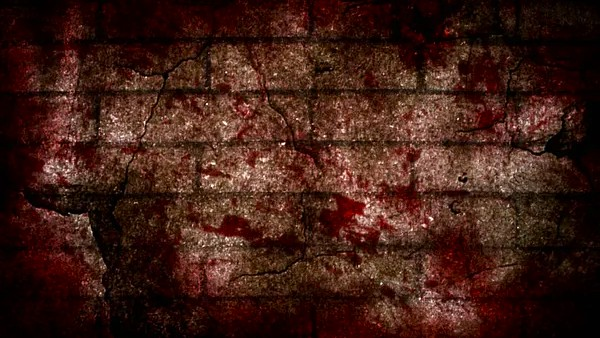
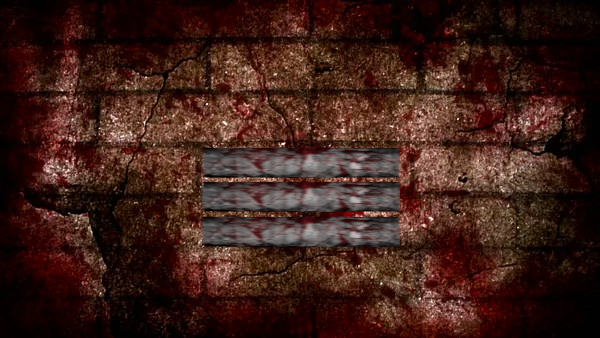
Zmiana ekranu menu + nowe opcje menu

Changed region(s): [[0.33, 0.4142, 0.69, 0.7396]]

diff --git a/Menu.cpp b/Menu.cpp
@@ -4,6 +4,11 @@
 #include <iostream>
 #include <string>
 #include <iomanip>
+#include <algorithm>
+#include <sstream>
+
+const int SETTINGS_COUNT = 5;
+const int VISIBLE_ROWS = 4;
 
 static bool keyUpPressed = false;
 static bool keyDownPressed = false;
@@ -24,7 +29,6 @@ void applyResolution(GLFWwindow* window, int index, int& w, int& h, bool fullscr
     else {
         glfwSetWindowSize(window, w, h);
         glViewport(0, 0, w, h);
-
         const GLFWvidmode* mode = glfwGetVideoMode(glfwGetPrimaryMonitor());
         glfwSetWindowPos(window, (mode->width - w) / 2, (mode->height - h) / 2);
     }
@@ -38,7 +42,6 @@ void setWindowMode(GLFWwindow* window, bool fullscreen, int w, int h) {
     }
     else {
         glfwSetWindowMonitor(window, nullptr, 100, 100, w, h, 0);
-
         const GLFWvidmode* mode = glfwGetVideoMode(glfwGetPrimaryMonitor());
         glfwSetWindowPos(window, (mode->width - w) / 2, (mode->height - h) / 2);
     }
@@ -56,7 +59,14 @@ void updateMenu(GLFWwindow* window, GameState& currentState, MenuContext& menuCt
             }
             else {
                 menuCtx.settingsOption--;
-                if (menuCtx.settingsOption < 0) menuCtx.settingsOption = 3;
+                if (menuCtx.settingsOption < 0) {
+                    menuCtx.settingsOption = SETTINGS_COUNT - 1;
+                    menuCtx.settingsScrollOffset = SETTINGS_COUNT - VISIBLE_ROWS;
+                    if (menuCtx.settingsScrollOffset < 0) menuCtx.settingsScrollOffset = 0;
+                }
+                else if (menuCtx.settingsOption < menuCtx.settingsScrollOffset) {
+                    menuCtx.settingsScrollOffset--;
+                }
             }
             keyUpPressed = true;
         }
@@ -72,7 +82,13 @@ void updateMenu(GLFWwindow* window, GameState& currentState, MenuContext& menuCt
             }
             else {
                 menuCtx.settingsOption++;
-                if (menuCtx.settingsOption > 3) menuCtx.settingsOption = 0;
+                if (menuCtx.settingsOption >= SETTINGS_COUNT) {
+                    menuCtx.settingsOption = 0;
+                    menuCtx.settingsScrollOffset = 0;
+                }
+                else if (menuCtx.settingsOption >= menuCtx.settingsScrollOffset + VISIBLE_ROWS) {
+                    menuCtx.settingsScrollOffset++;
+                }
             }
             keyDownPressed = true;
         }
@@ -80,24 +96,26 @@ void updateMenu(GLFWwindow* window, GameState& currentState, MenuContext& menuCt
     else keyDownPressed = false;
 
     if (menuCtx.inSettings) {
-        bool changed = false;
-
         if (glfwGetKey(window, GLFW_KEY_LEFT) == GLFW_PRESS) {
             if (!keyLeftPressed) {
                 playMenuBeep();
-                if (menuCtx.settingsOption == 0) {
+                if (menuCtx.settingsOption == 0) { // RES
                     menuCtx.resIndex--;
                     if (menuCtx.resIndex < 0) menuCtx.resIndex = 2;
                     applyResolution(window, menuCtx.resIndex, scrW, scrH, menuCtx.isFullscreen);
                 }
-                else if (menuCtx.settingsOption == 1) {
+                else if (menuCtx.settingsOption == 1) { // SCREEN
                     menuCtx.isFullscreen = !menuCtx.isFullscreen;
                     setWindowMode(window, menuCtx.isFullscreen, scrW, scrH);
                 }
-                else if (menuCtx.settingsOption == 2) {
+                else if (menuCtx.settingsOption == 2) { // VOLUME
                     menuCtx.volume -= 0.1f;
                     if (menuCtx.volume < 0.0f) menuCtx.volume = 0.0f;
                     setGlobalVolume(menuCtx.volume);
+                }
+                else if (menuCtx.settingsOption == 3) { // BRIGHTNESS
+                    menuCtx.brightness -= 0.1f;
+                    if (menuCtx.brightness < 0.1f) menuCtx.brightness = 0.1f; // Minimum 0.1
                 }
                 keyLeftPressed = true;
             }
@@ -107,19 +125,23 @@ void updateMenu(GLFWwindow* window, GameState& currentState, MenuContext& menuCt
         if (glfwGetKey(window, GLFW_KEY_RIGHT) == GLFW_PRESS) {
             if (!keyRightPressed) {
                 playMenuBeep();
-                if (menuCtx.settingsOption == 0) {
+                if (menuCtx.settingsOption == 0) { // RES
                     menuCtx.resIndex++;
                     if (menuCtx.resIndex > 2) menuCtx.resIndex = 0;
                     applyResolution(window, menuCtx.resIndex, scrW, scrH, menuCtx.isFullscreen);
                 }
-                else if (menuCtx.settingsOption == 1) {
+                else if (menuCtx.settingsOption == 1) { // SCREEN
                     menuCtx.isFullscreen = !menuCtx.isFullscreen;
                     setWindowMode(window, menuCtx.isFullscreen, scrW, scrH);
                 }
-                else if (menuCtx.settingsOption == 2) {
+                else if (menuCtx.settingsOption == 2) { // VOLUME
                     menuCtx.volume += 0.1f;
                     if (menuCtx.volume > 1.0f) menuCtx.volume = 1.0f;
                     setGlobalVolume(menuCtx.volume);
+                }
+                else if (menuCtx.settingsOption == 3) { // BRIGHTNESS
+                    menuCtx.brightness += 0.1f;
+                    if (menuCtx.brightness > 2.0f) menuCtx.brightness = 2.0f; // Maximum 2.0
                 }
                 keyRightPressed = true;
             }
@@ -130,28 +152,17 @@ void updateMenu(GLFWwindow* window, GameState& currentState, MenuContext& menuCt
     if (glfwGetKey(window, GLFW_KEY_ENTER) == GLFW_PRESS) {
         if (!keyEnterPressed) {
             playMenuBeep();
-
             if (!menuCtx.inSettings) {
-                if (menuCtx.selectedOption == 0) {
-                    resetGameFn();
-                    currentState = PLAYING;
-                }
+                if (menuCtx.selectedOption == 0) { resetGameFn(); currentState = PLAYING; }
                 else if (menuCtx.selectedOption == 1) {
                     menuCtx.inSettings = true;
                     menuCtx.settingsOption = 0;
+                    menuCtx.settingsScrollOffset = 0;
                 }
-                else if (menuCtx.selectedOption == 2) {
-                    shouldClose = true;
-                }
+                else if (menuCtx.selectedOption == 2) { shouldClose = true; }
             }
             else {
-                if (menuCtx.settingsOption == 3) {
-                    menuCtx.inSettings = false;
-                }
-                else if (menuCtx.settingsOption == 1) {
-                    menuCtx.isFullscreen = !menuCtx.isFullscreen;
-                    setWindowMode(window, menuCtx.isFullscreen, scrW, scrH);
-                }
+                if (menuCtx.settingsOption == 4) { menuCtx.inSettings = false; }
             }
             keyEnterPressed = true;
         }
@@ -160,48 +171,86 @@ void updateMenu(GLFWwindow* window, GameState& currentState, MenuContext& menuCt
 }
 
 void renderMenu(std::vector<float>& vertices, const MenuContext& menuCtx) {
-    drawQuad2D(vertices, 0.0f, 0.0f, 1.0f, 1.0f, 60.0f);
+
+    float bgID = 60.0f;
+    if (menuCtx.inSettings) {
+        bgID = 63.0f;
+    }
+
+    drawQuad2D(vertices, 0.0f, 0.0f, 1.0f, 1.0f, bgID);
     drawQuad2D(vertices, 0.0f, 0.6f, 0.5f, 0.25f, 61.0f);
 
-    float startY = -0.1f;
-    float gap = 0.13f;
-    float scale = 0.05f;
+    float startY = 0.0f;
+    float gap = 0.20f;
+
+    float mainScale = 0.08f;
+    float exitScale = 0.06f;
+    float optionsScale = 0.07f;
+
+    auto drawCenteredOption = [&](int index, int selectedIndex, float y, std::string text, float itemScale) {
+        float textWidth = text.length() * itemScale * 0.65f;
+        float startX = 0.0f - (textWidth / 2.0f);
+        drawText(vertices, startX, y, itemScale, text);
+
+        if (index == selectedIndex) {
+            float iconSize = 0.05f;
+            float iconY = y + (itemScale * 0.3f);
+            float pushRight = 0.01f;
+
+            float leftIconPos = startX - iconSize + pushRight;
+            drawQuad2D(vertices, leftIconPos, iconY, iconSize, iconSize, 62.0f);
+
+            float rightIconPos = startX + textWidth + iconSize - pushRight - (itemScale * 0.2f);
+            drawQuad2D(vertices, rightIconPos, iconY, iconSize, iconSize, 62.0f);
+        }
+        };
 
     if (!menuCtx.inSettings) {
-        if (menuCtx.selectedOption == 0) drawText(vertices, -0.25f, startY, scale + 0.01f, "> NEW GAME <");
-        else drawText(vertices, -0.20f, startY, scale, "NEW GAME");
-
-        if (menuCtx.selectedOption == 1) drawText(vertices, -0.25f, startY - gap, scale + 0.01f, "> SETTINGS <");
-        else drawText(vertices, -0.20f, startY - gap, scale, "SETTINGS");
-
-        if (menuCtx.selectedOption == 2) drawText(vertices, -0.25f, startY - gap * 2, scale + 0.01f, "> EXIT GAME <");
-        else drawText(vertices, -0.20f, startY - gap * 2, scale, "EXIT GAME");
+        drawCenteredOption(0, menuCtx.selectedOption, startY, "NEW GAME ", mainScale);
+        drawCenteredOption(1, menuCtx.selectedOption, startY - gap, "SETTINGS ", mainScale);
+        drawCenteredOption(2, menuCtx.selectedOption, startY - gap * 2, "EXIT GAME ", exitScale);
     }
     else {
-        drawText(vertices, -0.25f, startY + 0.1f, scale, "--- OPTIONS ---");
 
-        std::string resText;
-        if (menuCtx.resIndex == 0) resText = "1920x1080";
-        else if (menuCtx.resIndex == 1) resText = "1280x720";
-        else resText = "640x480";
+        drawCenteredOption(-1, -1, startY + 0.15f, "--- OPTIONS ---", mainScale);
 
-        if (menuCtx.settingsOption == 0) drawText(vertices, -0.45f, startY, scale + 0.01f, "> RES: " + resText + " <");
-        else drawText(vertices, -0.40f, startY, scale, "RES: " + resText);
+        for (int i = 0; i < SETTINGS_COUNT; i++) {
+            if (i >= menuCtx.settingsScrollOffset && i < menuCtx.settingsScrollOffset + VISIBLE_ROWS) {
+                int relativeIndex = i - menuCtx.settingsScrollOffset;
+                float currentY = startY - (relativeIndex * gap);
 
-        std::string fsText = menuCtx.isFullscreen ? "ON" : "OFF";
+                std::string text = "";
+                if (i == 0) {
+                    std::string resText = (menuCtx.resIndex == 0) ? "1920x1080 " : ((menuCtx.resIndex == 1) ? "1280x720 " : "640x480 ");
+                    text = "RES: " + resText;
+                }
+                else if (i == 1) {
+                    text = "FULLSCREEN: " + std::string(menuCtx.isFullscreen ? "ON " : "OFF ");
+                }
+                else if (i == 2) {
+                    text = "VOLUME: " + std::to_string((int)(menuCtx.volume * 100)) + "% ";
+                }
+                else if (i == 3) {
+                    std::stringstream ss;
+                    ss << std::fixed << std::setprecision(1) << menuCtx.brightness;
+                    text = "BRIGHTNESS: " + ss.str() + " ";
+                }
+                else if (i == 4) {
+                    text = "BACK ";
+                }
 
-        if (menuCtx.settingsOption == 1) drawText(vertices, -0.45f, startY - gap, scale + 0.01f, "> SCREEN: " + fsText + " <");
-        else drawText(vertices, -0.40f, startY - gap, scale, "SCREEN: " + fsText);
+                drawCenteredOption(i, menuCtx.settingsOption, currentY, text, optionsScale);
+            }
+        }
 
-        int volPercent = (int)(menuCtx.volume * 100);
-        std::string volText = std::to_string(volPercent) + "%";
+        if (menuCtx.settingsScrollOffset > 0)
+            drawText(vertices, -0.02f, startY + 0.05f, 0.03f, "^");
 
-        if (menuCtx.settingsOption == 2) drawText(vertices, -0.45f, startY - gap * 2, scale + 0.01f, "> VOL: " + volText + " <");
-        else drawText(vertices, -0.40f, startY - gap * 2, scale, "VOL: " + volText);
-
-        if (menuCtx.settingsOption == 3) drawText(vertices, -0.25f, startY - gap * 3, scale + 0.01f, "> BACK <");
-        else drawText(vertices, -0.20f, startY - gap * 3, scale, "BACK");
+        if (menuCtx.settingsScrollOffset + VISIBLE_ROWS < SETTINGS_COUNT)
+            drawText(vertices, -0.02f, startY - (VISIBLE_ROWS * gap) + 0.05f, 0.03f, "v");
     }
 
-    drawText(vertices, -0.55f, -0.90f, 0.03f, "ARROWS TO MOVE, ENTER TO SELECT");
+    std::string footer = "ARROWS TO MOVE, ENTER TO SELECT";
+    float footerWidth = footer.length() * 0.03f * 0.65f;
+    drawText(vertices, 0.0f - (footerWidth / 2.0f), -0.90f, 0.03f, footer);
 }

diff --git a/main.cpp b/main.cpp
@@ -191,11 +191,15 @@ uniform sampler2D shellTex;          // 54
 uniform sampler2D shellShotgunTex;   // 55
 uniform sampler2D menuBgTex;         // 56
 uniform sampler2D logoTex;           // 57
+uniform sampler2D bloodyXTex;        // 58
+uniform sampler2D settingsBgTex;     // 59
 
 uniform bool useTexture; uniform float playerDir; uniform vec2 playerPos; uniform float screenWidth; uniform float screenHeight;
 uniform float damageIntensity;
 uniform float horizon;
 uniform float flashIntensity;
+
+uniform float brightness; 
 
 void main() {
     if (useTexture) {
@@ -232,6 +236,8 @@ void main() {
         else if (ourColor.b > 89.9) texColor = texture(wallTexture, TexCoord);
         else if (ourColor.b > 79.9) texColor = texture(bloodPartTex, TexCoord);
         
+        else if (ourColor.b > 62.9) texColor = texture(settingsBgTex, TexCoord);
+        else if (ourColor.b > 61.9) texColor = texture(bloodyXTex, TexCoord);
         else if (ourColor.b > 60.9) texColor = texture(logoTex, TexCoord);
         else if (ourColor.b > 59.9) texColor = texture(menuBgTex, TexCoord);
         
@@ -323,6 +329,9 @@ void main() {
 
         if (!isBlood) FragColor = texColor * vec4(ourColor.r, ourColor.r, ourColor.r, 1.0);
         else FragColor = texColor;
+
+        FragColor = FragColor * vec4(brightness, brightness, brightness, 1.0);
+
     } else { FragColor = vec4(ourColor, 1.0); }
 }
 )glsl";
@@ -400,7 +409,7 @@ int main() {
     glVertexAttribPointer(1, 3, GL_FLOAT, GL_FALSE, 7 * sizeof(float), (void*)(2 * sizeof(float))); glEnableVertexAttribArray(1);
     glVertexAttribPointer(2, 2, GL_FLOAT, GL_FALSE, 7 * sizeof(float), (void*)(5 * sizeof(float))); glEnableVertexAttribArray(2);
 
-    GLuint t[58];
+    GLuint t[60];
     t[0] = loadTexture("wall.png"); t[1] = loadTexture("monster.png"); t[2] = loadTexture("pistol.png");
     t[3] = loadTexture("font.png"); t[4] = loadTexture("hit.png"); t[5] = loadTexture("floor.png");
     t[6] = loadTexture("ceiling.png"); t[7] = loadTexture("pistol_view_128.png"); t[8] = loadTexture("shotgun.png");
@@ -443,6 +452,8 @@ int main() {
     t[55] = loadTexture("shell_shotgun.png");
     t[56] = loadTexture("menu_bg.png");
     t[57] = loadTexture("logo.png");
+    t[58] = loadTexture("bloody_x.png");
+    t[59] = loadTexture("settings_bg.png");
 
     initAudio();
 
@@ -461,10 +472,10 @@ int main() {
         "dCodeL", "dCodeO", "keypadRed", "keypadGreen",
         "rifleTex", "rifleViewTex", "rifleShootTex", "ammoRifleTex", "hudTexture",
         "shellTex", "shellShotgunTex",
-        "menuBgTex", "logoTex" };
+        "menuBgTex", "logoTex", "bloodyXTex", "settingsBgTex" };
 
-    for (int i = 0; i < 58; i++) glUniform1i(glGetUniformLocation(p, names[i]), i);
-    for (int i = 0; i < 58; i++) { glActiveTexture(GL_TEXTURE0 + i); glBindTexture(GL_TEXTURE_2D, t[i]); }
+    for (int i = 0; i < 60; i++) glUniform1i(glGetUniformLocation(p, names[i]), i);
+    for (int i = 0; i < 60; i++) { glActiveTexture(GL_TEXTURE0 + i); glBindTexture(GL_TEXTURE_2D, t[i]); }
     glActiveTexture(GL_TEXTURE0);
 
     glClearColor(0.25f, 0.5f, 0.75f, 1.0f);
@@ -472,6 +483,8 @@ int main() {
 
     GameState gameState = MENU;
     MenuContext menuCtx;
+    menuCtx.brightness = 1.0f;
+
     static bool escPressedLastFrame = false;
 
     activeMapIndex = 1; switchMap(activeMapIndex); initMonsters(); initWeapons();
@@ -481,6 +494,9 @@ int main() {
 
     while (!glfwWindowShouldClose(window)) {
         glfwPollEvents();
+
+        glUseProgram(p);
+        glUniform1f(glGetUniformLocation(p, "brightness"), menuCtx.brightness);
 
         float finalIntensity = 0.0f;
 
@@ -568,7 +584,7 @@ int main() {
 
                     if (currentWeapon == 1) { isShooting = true; shootTimer = 0.15f; }
                     else if (currentWeapon == 2) { isShooting = true; shootTimer = 0.40f; }
-                    else if (currentWeapon == 3) { isShooting = true; shootTimer = 0.10f; }
+                    else if (currentWeapon == 3) { isShooting = true; shootTimer = 0.35f; }
                     else if (currentWeapon == 0) { isShooting = true; shootTimer = 0.6f; maxShootTime = shootTimer; punchSide = 1 - punchSide; }
 
                     int pellets = 1; float spread = 0.0f; float spreadY = 0.0f;

diff --git a/Menu.h b/Menu.h
@@ -14,9 +14,13 @@ struct MenuContext {
     bool inSettings = false;
     int settingsOption = 0;
 
+    int settingsScrollOffset = 0;
+
     int resIndex = 0;
     bool isFullscreen = false;
     float volume = 1.0f;
+
+    float brightness = 1.0f;
 };
 
 void drawText(std::vector<float>& v, float sx, float sy, float s, const std::string& t);
